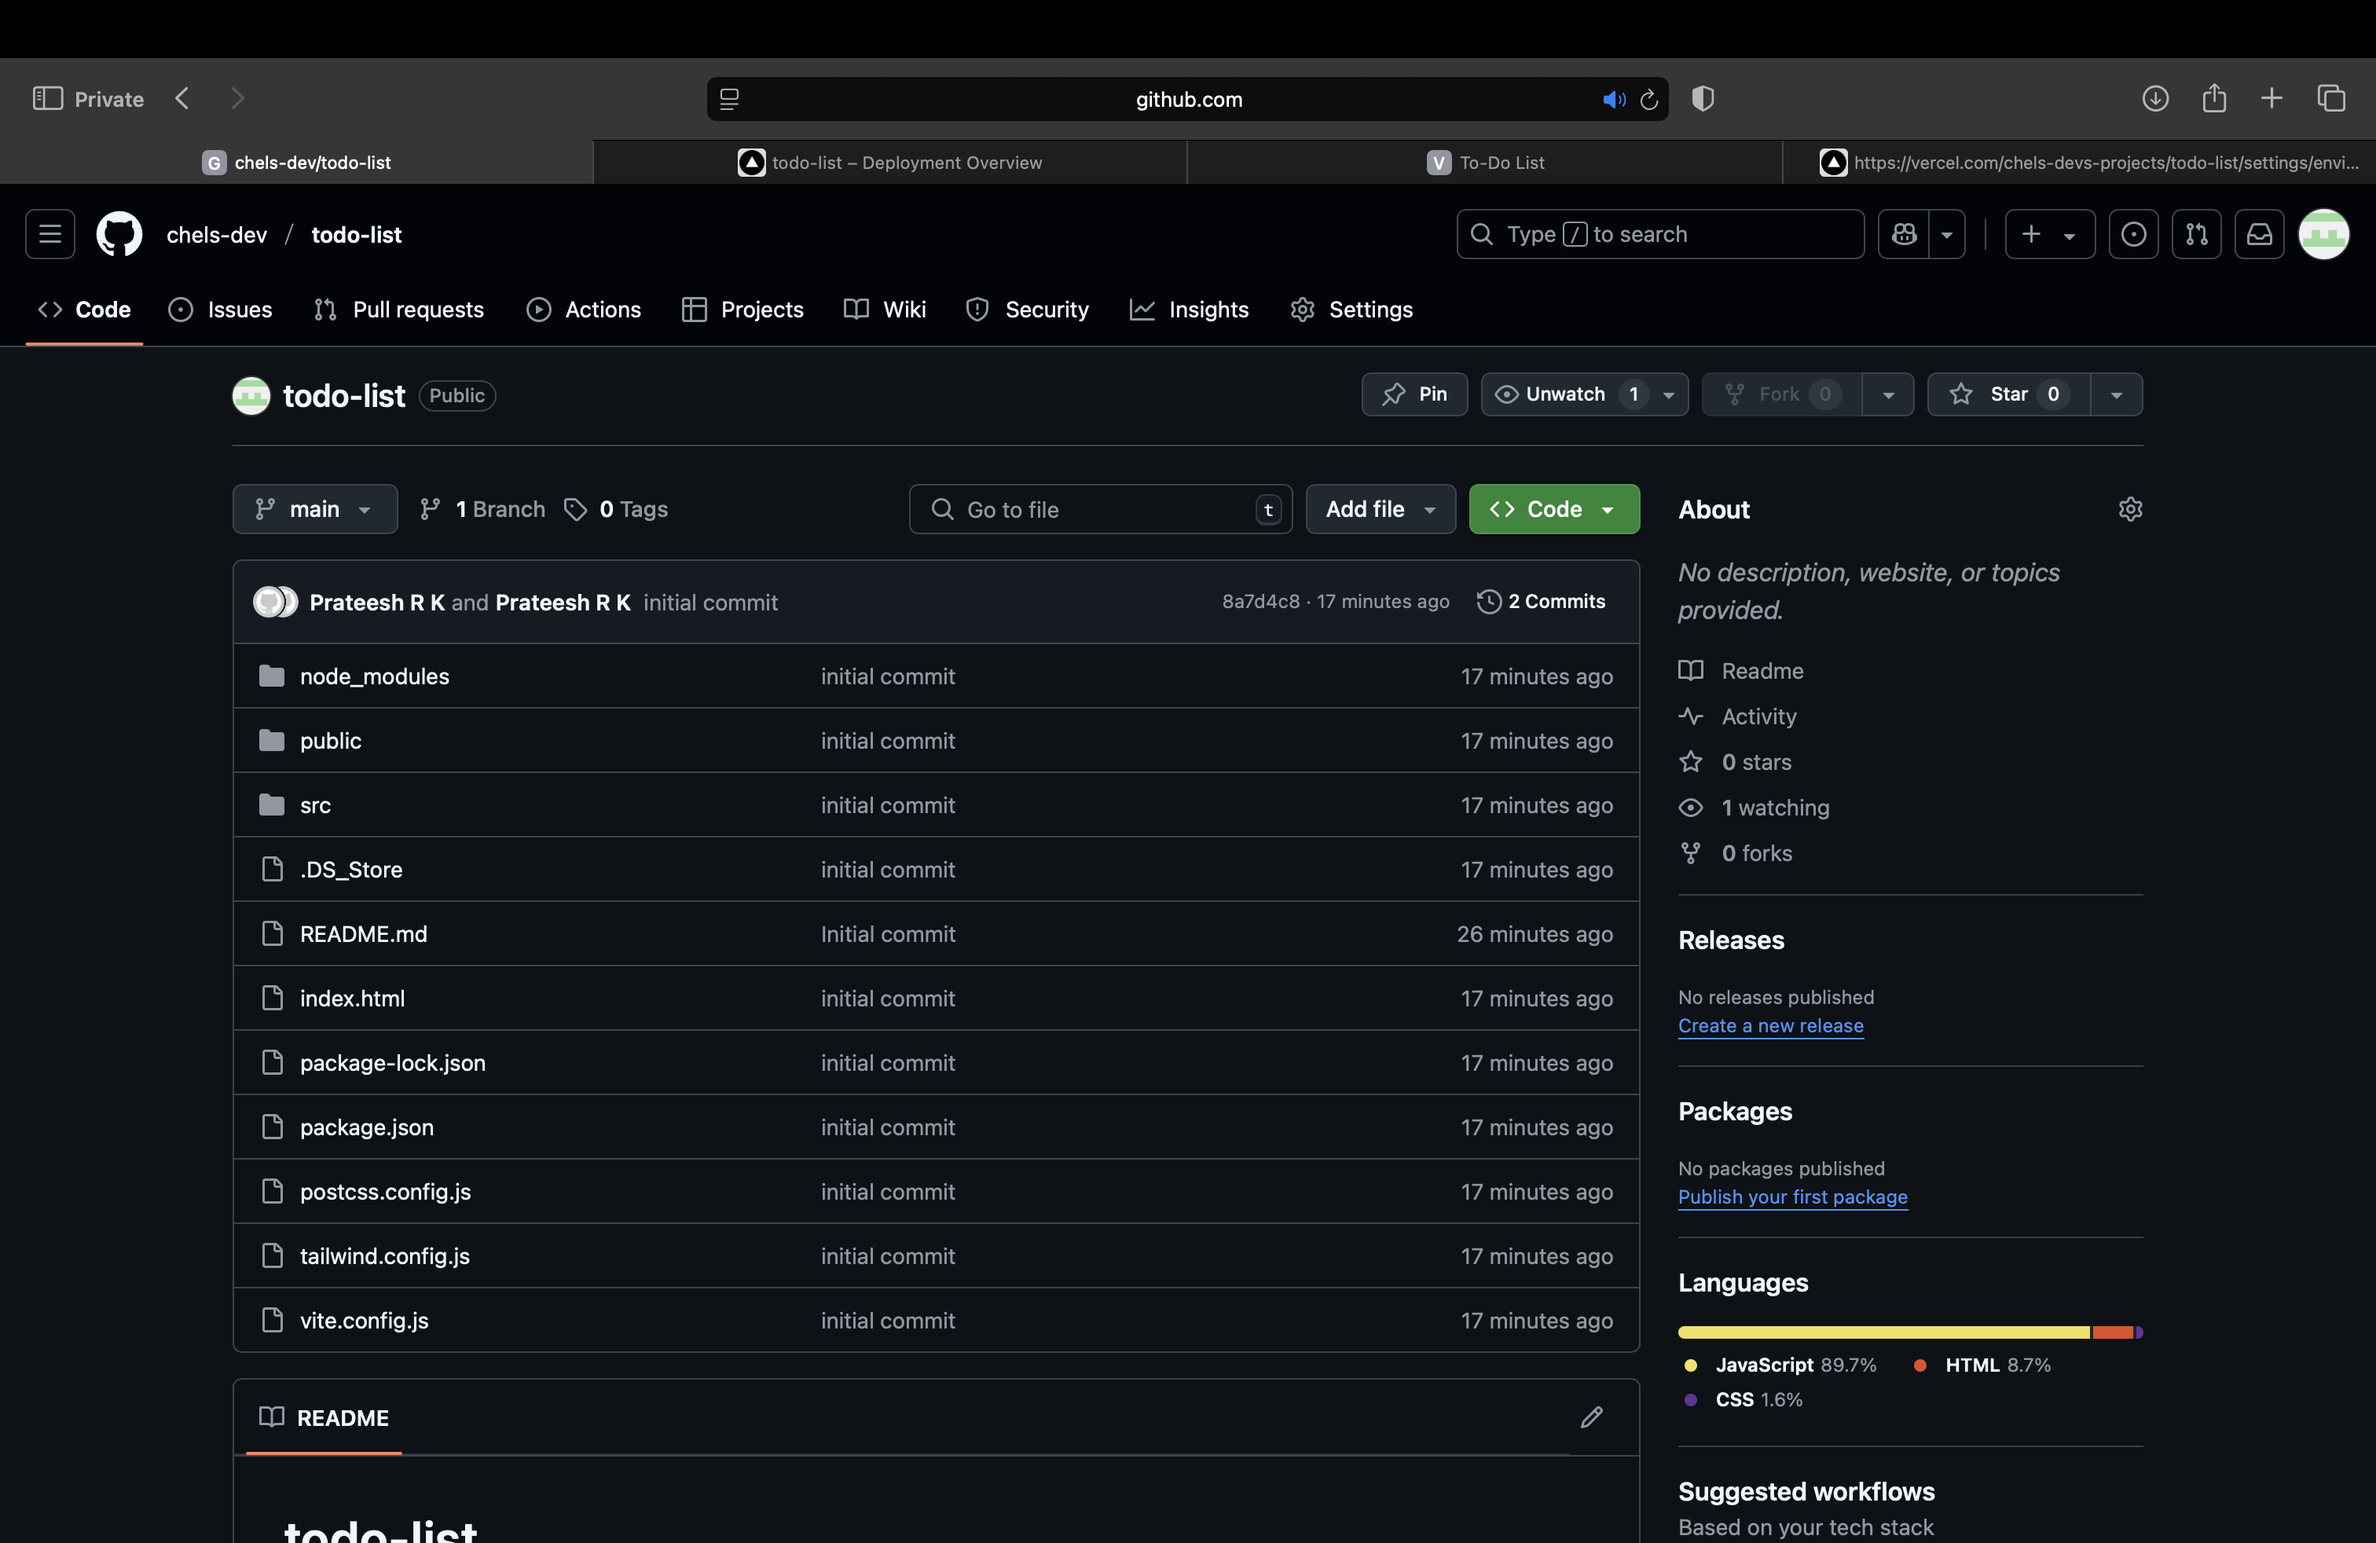
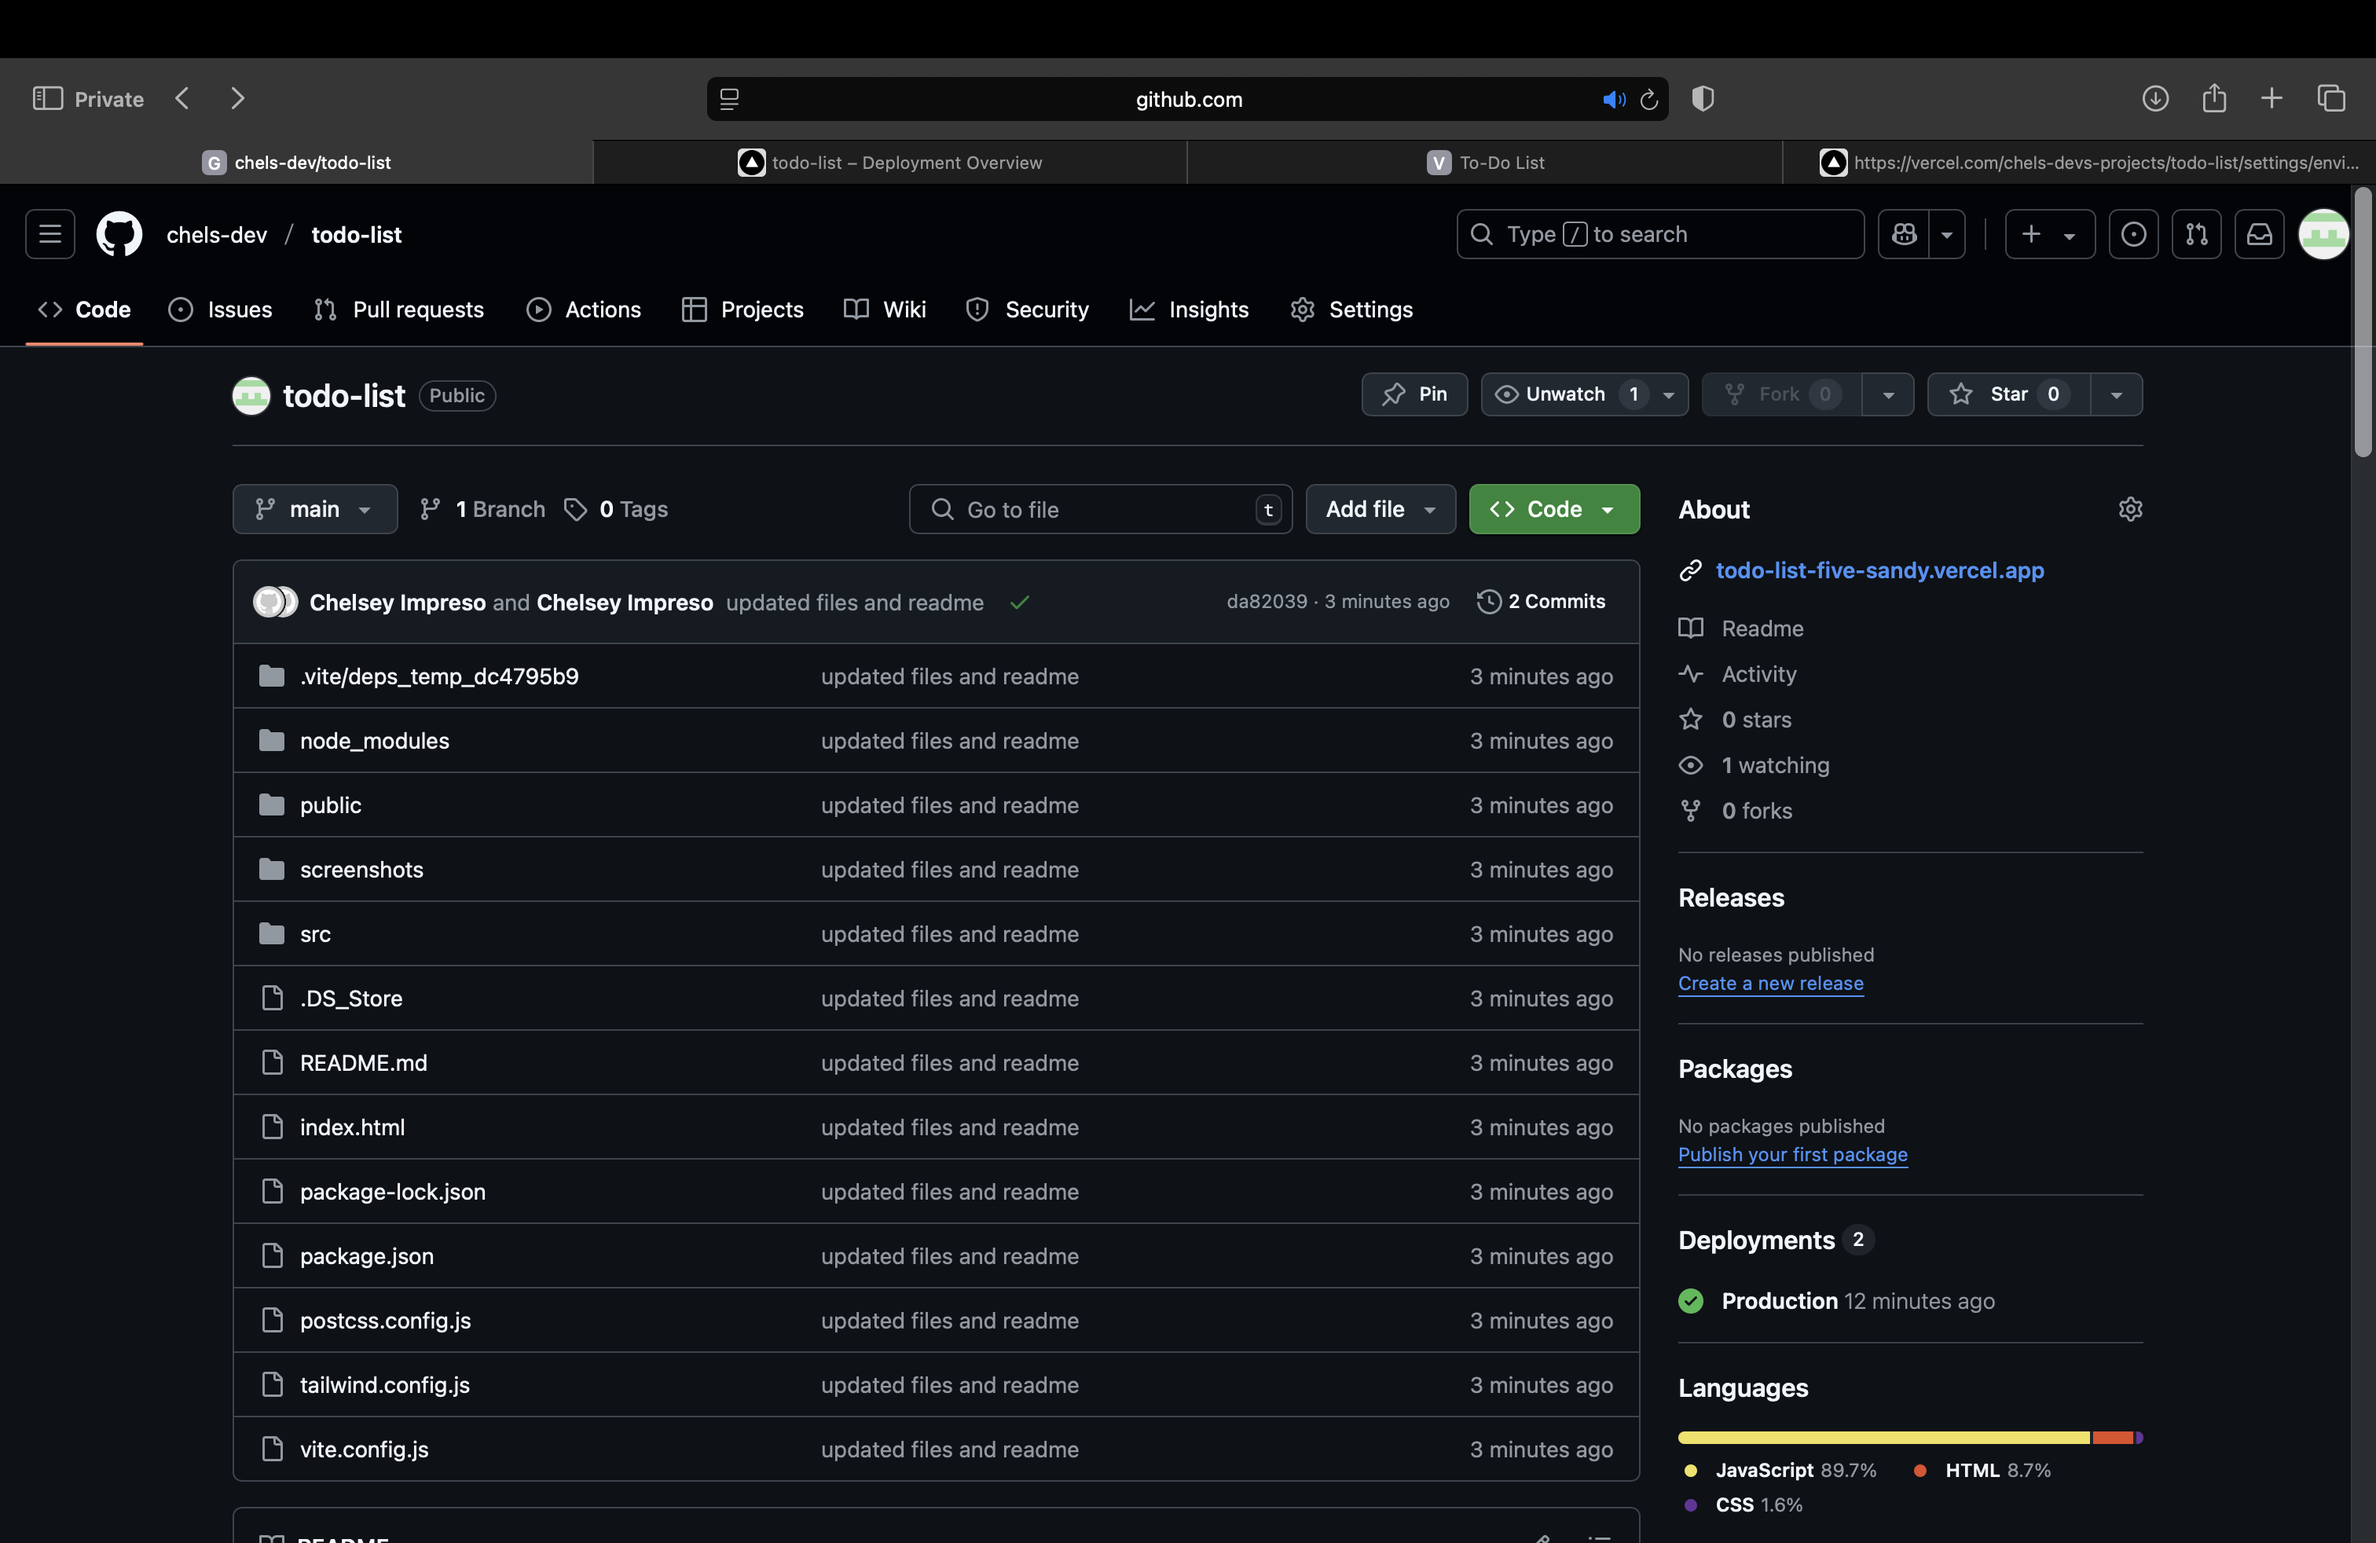
updated screenshots and readme

diff --git a/README.md b/README.md
@@ -13,11 +13,11 @@
 4. Configured environment variables in Vercel Dashboard
 
 ### 📸 Screenshots
-- ![Local Setup](screenshots/local-setup.png)
-- ![GitHub Repo](screenshots/github-repo.png)
-- ![Vercel Deployment](screenshots/vercel-deployment.png)
-- ![Domain Settings](screenshots/domain.png)
-- ![Environment Variables](screenshots/env-vars.png)
+- Local Setup ![Local Setup](screenshots/local-setup.png)
+- Github Repo ![GitHub Repo](screenshots/github-repo.png)
+- Vercel Deployment ![Vercel Deployment](screenshots/vercel-deployment.png)
+- Domain Settings ![Domain Settings](screenshots/domain.png)
+- Environment Variables ![Environment Variables](screenshots/env-vars.png)
 
 ## 🌐 Live App
 
